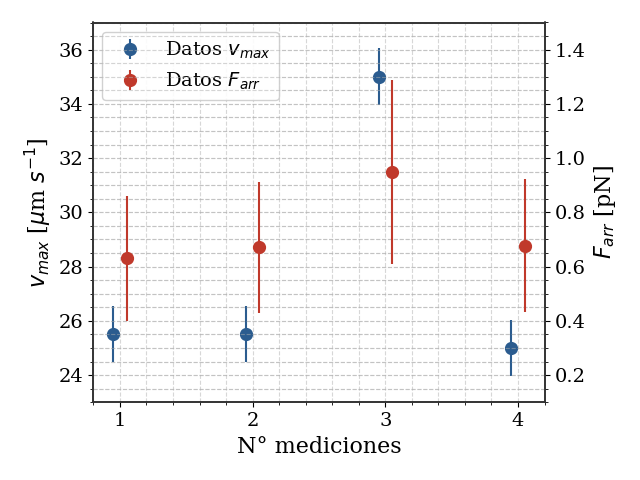
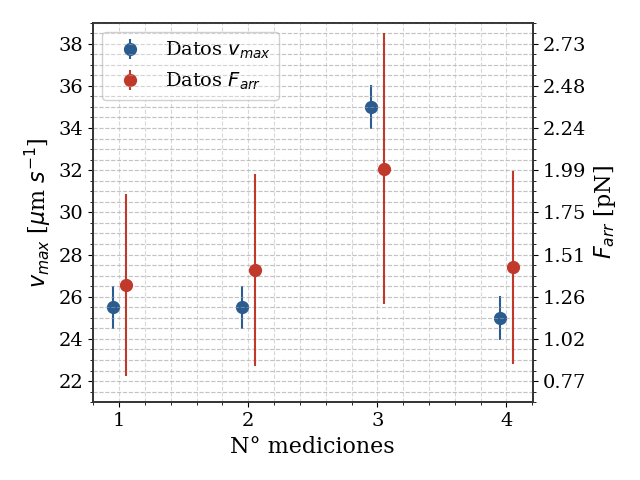
fuerza de drag para el informe

Changed region(s): [[0.0938, 0.0625, 0.9375, 0.9688], [0.0938, 0.0625, 0.1562, 0.125], [0.0938, 0.3125, 0.125, 0.375]]

diff --git a/practica3/clase4/calculo_fuerza_drag.py b/practica3/clase4/calculo_fuerza_drag.py
@@ -156,6 +156,10 @@ plt.show()
 #%% Fuerzas individuales: F_i = 3*pi*eta*v_i*D_i
 eta   = 0.9e-3 * 1e-6    # kg um^-1 s^-1  (0,9 mPa s)
 eta_e = 0.3e-3 * 1e-6    # kg um^-1 s^-1  (0,3 mPa s)
+eta   = 1.9e-3 * 1e-6    # kg um^-1 s^-1  (0,9 mPa s)
+eta_e = 0.7e-3 * 1e-6    # kg um^-1 s^-1  (0,3 mPa s)
+# eta   = 1 * 1e-6    # kg um^-1 s^-1  (0,9 mPa s)
+# eta_e = 0* 1e-6    # kg um^-1 s^-1  (0,3 mPa s)
 k = 3*np.pi*eta * 1e6    # conversión a pN incluida (una sola vez)
 
 f_d = k * velocidad * diametro                                   # pN
@@ -195,7 +199,11 @@ ax5.errorbar(x - desfase, velocidad, yerr=v_e, fmt="o", color=color_v,
 ax5.set_xlabel("N° mediciones")
 ax5.set_ylabel(r"$v_{max}$ [$\mu$m $s^{-1}$]")#, color=color_v)
 ax5.set_ylim(23,37)
+ax5.set_ylim(21,39)
 
+
+ticks_v = np.arange(22, 39, 2)
+ax5.set_yticks(ticks_v)
 ax5.tick_params(axis='y')#, labelcolor=color_v)
 # Configuramos los números enteros en el eje X para que queden centrados
 ax5.set_xticks(x)
@@ -207,13 +215,17 @@ color_f = 'C1'    # Naranja
 ax6.errorbar(x + desfase, f_d, yerr=fd_e, fmt="o", color=color_f,
               label=r"Datos $F_{arr}$")
 ax6.set_ylabel(r"$F_{arr}$ [pN]")#, color=color_f)
-ax6.set_ylim(0.1, 1.5)
-
+#ax6.set_ylim(0.1, 1.5)
+ax6.set_ylim(0.65, 2.85)
+fracciones = (ticks_v - 21) / (39 - 21)
+ticks_f = 0.65 + fracciones * (2.85 - 0.65)
+ax6.set_yticks(ticks_f)
+ax6.set_yticklabels([f"{val:.2f}" for val in ticks_f])
 # --- Leyenda Unificada ---
 # Extraemos las referencias de ambos ejes para armar un solo recuadro de leyenda
 lineas_1, etiquetas_1 = ax5.get_legend_handles_labels()
 lineas_2, etiquetas_2 = ax6.get_legend_handles_labels()
-ax5.legend(lineas_1 + lineas_2, etiquetas_1 + etiquetas_2)
+ax5.legend(lineas_1 + lineas_2, etiquetas_1 + etiquetas_2, loc="upper left")
 
 fig5.tight_layout()
 fig5.savefig("VelocidadYFuerza.png")
